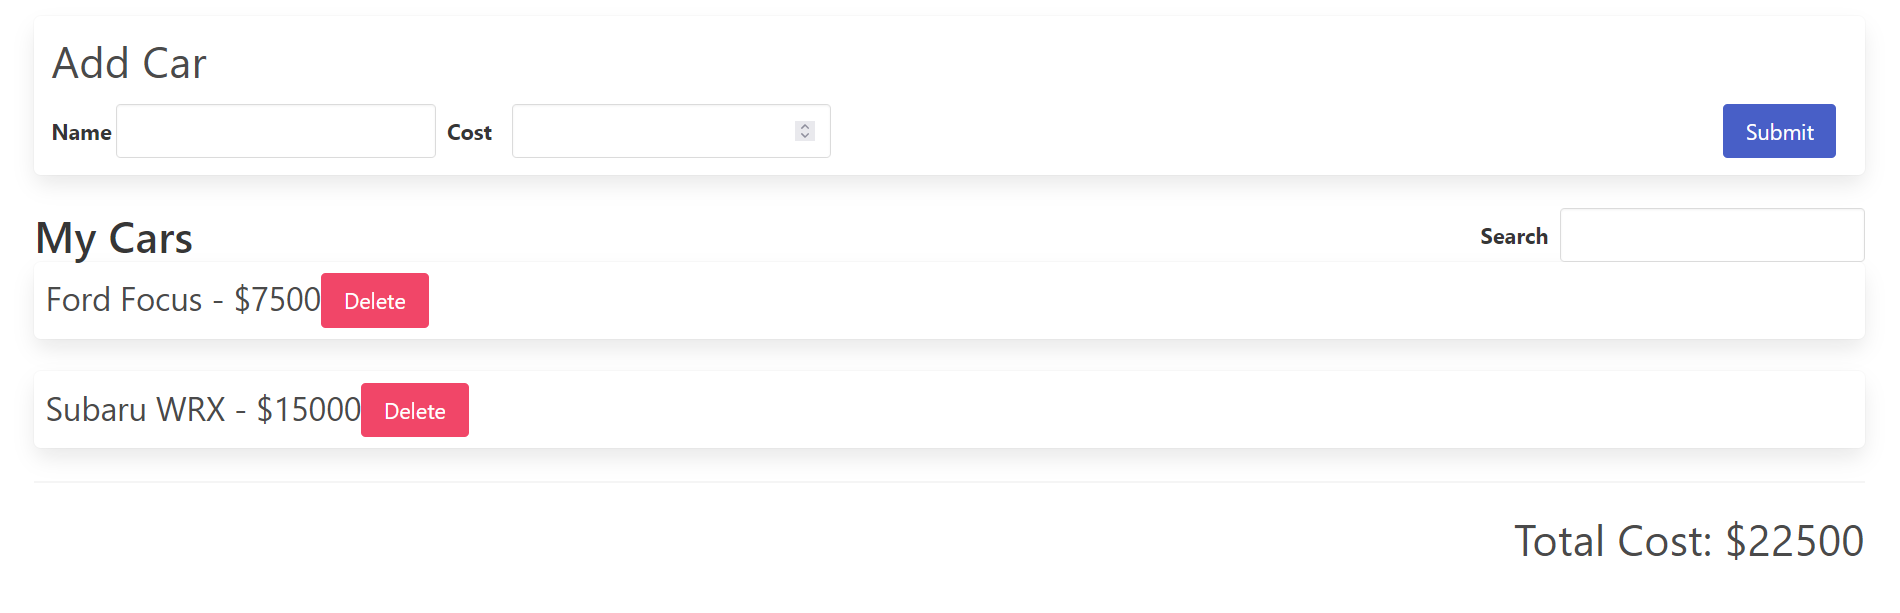
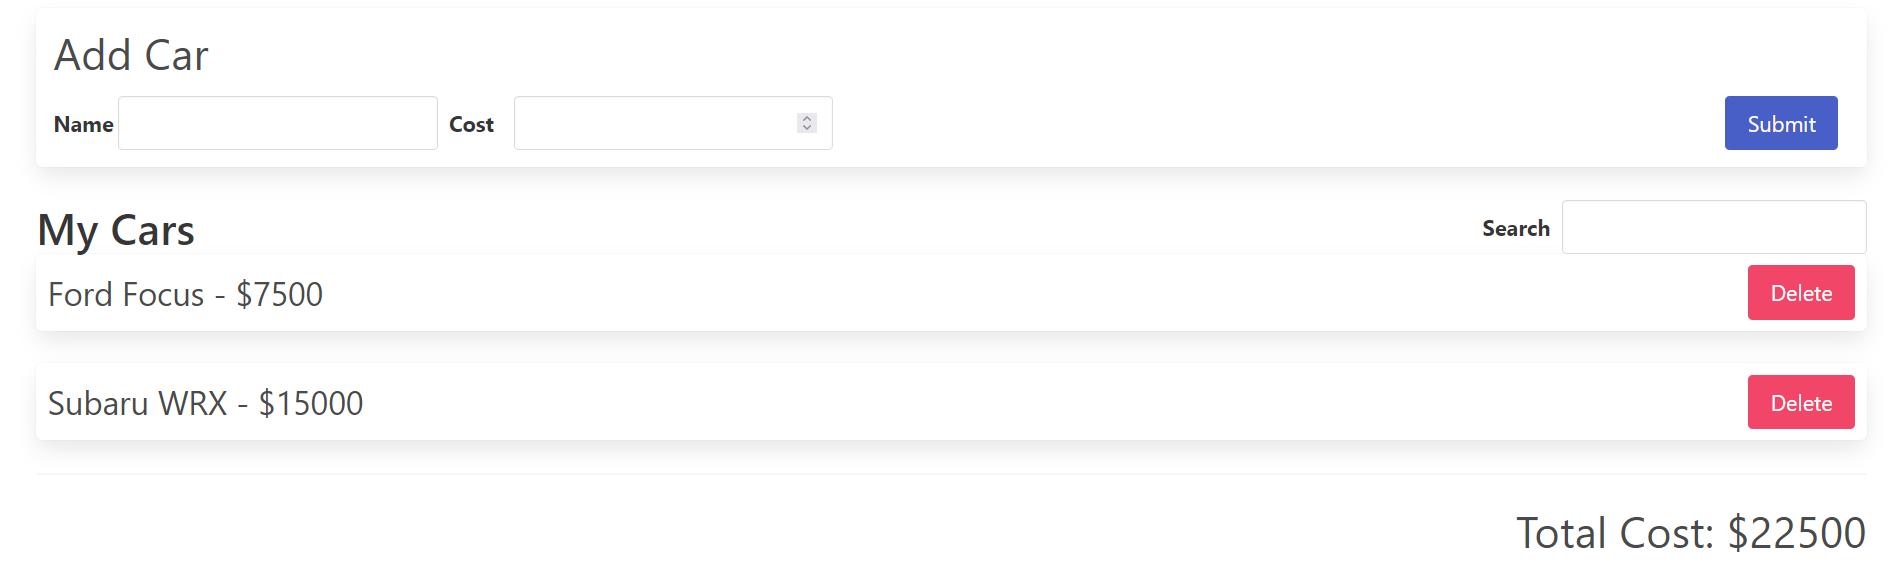
Add files via upload

diff --git a/src/components/CarList.js b/src/components/CarList.js
@@ -19,19 +19,20 @@ function CarList() {
   };
 
   const renderedCars = cars.map((car) => {
+    // DECIDE IF THIS CAR SHOULD BE BOLD
     const bold = name && car.name.toLowerCase().includes(name.toLowerCase());
 
     return (
       <div key={car.id} className={`panel ${bold && "bold"}`}>
         <p>
           {car.name} - ${car.cost}
-          <button
-            className="button is-danger"
-            onClick={() => handleCarDelete(car)}
-          >
-            Delete
-          </button>
         </p>
+        <button
+          className="button is-danger"
+          onClick={() => handleCarDelete(car)}
+        >
+          Delete
+        </button>
       </div>
     );
   });

diff --git a/src/components/CarForm.js b/src/components/CarForm.js
@@ -9,6 +9,7 @@ function CarForm() {
       cost: state.form.cost,
     };
   });
+
   const handleNameChange = (event) => {
     dispatch(changeName(event.target.value));
   };
